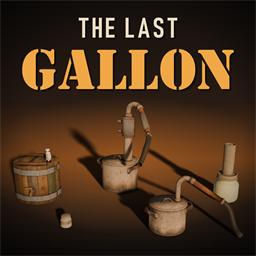
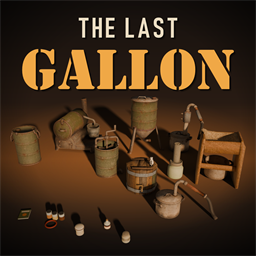
art: the preview and the poster show fourteen models, the nine machines and five small items
tools/blender/pz_preview.py places the five biodiesel machines and the
sampling kit, the yeast starter, the stabilizer and the manual beside
the five models drawn before, in three rows, through a 35 mm lens from a
higher camera. It takes the Cycles samples as an optional argument.
make-preview.ps1 wrote art-src/preview.png and 42/poster.png: 256x256,
88,596 bytes, SHA-256 13A1A39F...7309D5D1.

Not in the picture: the Diesel Generator (the game's sprite recoloured,
no model) and the Biodiesel Handbook (the manual's model).

Three shipped files change: 42/poster.png, preview.png and NOTICE.md.
The version stays 0.4.0. The 0.4.0 zip in dist is still the one of
eecd209, with the earlier picture. No launch looked at the new poster
in the game.

Changed region(s): [[0.0312, 0.375, 0.9688, 0.9375], [0.375, 0.8125, 0.5312, 0.9688]]

diff --git a/tools/blender/pz_preview.py b/tools/blender/pz_preview.py
@@ -1,14 +1,18 @@
 """Render the machines for the Workshop preview (tools/make-preview.ps1).
 
-  blender -b --factory-startup --python tools/blender/pz_preview.py -- <media dir> <out.png> [size]
+  blender -b --factory-startup --python tools/blender/pz_preview.py -- <media dir> <out.png> [size] [samples]
 
-Draws the mod's own five supplied models (media/models_X/TLG, each with its
+Draws the mod's own fourteen models (media/models_X/TLG, each with its
 media/textures/TLG texture) at their in-game scales (media/scripts/
 TLG_models.txt) on a shadow-catching floor, in Cycles, with a transparent
-background: the floor keeps only the shadows. A low warm light from behind
-and a cool fill from the front. The camera frames the group in the lower
-part of the picture, leaving the top for the title that make-preview.ps1
-draws. No game asset is drawn.
+background: the floor keeps only the shadows. The machines stand in three
+rows, the tall ones at the back, and the small items lie in front of them:
+a 35 mm lens close to the group draws those larger than a long lens would.
+A low warm light from behind and a cool fill from the front. The camera
+frames the group in the lower part of the picture, leaving the top for the
+title that make-preview.ps1 draws. [samples] (default 96) sets the Cycles
+samples: a low number gives a quick draft while the layout is tuned. No
+game asset is drawn.
 """
 import math
 import os
@@ -21,22 +25,22 @@ from mathutils import Vector
 # name, in-game scale, (x, y) on the floor in metres, turn about Z in degrees
 LAYOUT = (
     # The back row: the tall machines.
-    ("AshBarrel", 0.6, (-1.35, 1.25), 20.0),
-    ("BiodieselReactor", 0.77, (-0.55, 1.35), 0.0),
+    ("WoodRetort", 0.87, (-0.95, 1.30), 0.0),
     ("BiodieselWashTank", 1.0, (0.35, 1.40), 0.0),
-    ("RefluxStill", 0.9, (1.20, 1.20), -15.0),
+    ("RefluxStill", 0.9, (1.05, 1.35), -15.0),
     # The middle row.
-    ("WoodRetort", 0.87, (-0.85, 0.30), 0.0),
-    ("Fermenter", 0.5, (0.30, 0.25), 25.0),
-    ("DryingColumn", 0.55, (0.90, 0.35), -30.0),
+    ("AshBarrel", 0.6, (-1.55, 0.40), 20.0),
+    ("BiodieselReactor", 0.77, (-0.08, 0.30), 0.0),
+    ("Fermenter", 0.5, (0.50, -0.05), 25.0),
+    ("DryingColumn", 0.55, (0.95, 0.40), -30.0),
     ("LyeLeacher", 0.73, (1.55, 0.50), 180.0),
     # The front row, nearest the camera: the pot still and the small items.
     ("PotStill", 0.7, (1.10, -0.55), -25.0),
-    ("ManualFuelSystems", 0.16, (-1.10, -0.95), 20.0),
-    ("FuelSampleKit", 0.225, (-0.65, -1.00), 0.0),
-    ("YeastStarter", 0.108, (-0.25, -1.10), 0.0),
-    ("FuelStabilizer", 0.115, (0.02, -0.95), 0.0),
-    ("FuelFilter", 0.1, (0.30, -1.10), 10.0),
+    ("ManualFuelSystems", 0.16, (-0.80, -0.95), 20.0),
+    ("FuelSampleKit", 0.225, (-0.40, -1.00), 0.0),
+    ("YeastStarter", 0.108, (-0.02, -1.10), 0.0),
+    ("FuelStabilizer", 0.115, (0.25, -0.95), 0.0),
+    ("FuelFilter", 0.1, (0.50, -1.10), 10.0),
 )
 # The group spans this much of the frame's width, its feet this far up.
 SPAN, FEET, TOP = 0.92, 0.05, 0.66

diff --git a/docs/decisions.md b/docs/decisions.md
@@ -1186,7 +1186,9 @@ their replacement.
     tested and what this version leaves out; the tags Build 42, Realistic,
     Vehicles and Items (`media/WorkshopTags.txt`); visibility private.
   * The Workshop preview, `art-src/preview.png` (256×256), is made by
-    `tools/make-preview.ps1` from the mod's own five machine models. The
+    `tools/make-preview.ps1` from the mod's own five machine models
+    (fourteen models since 2026-11-11: the nine machines and five small
+    items; the user asked for "all the items"). The
     package carries it beside `Contents/`, and it is also the poster.
 * Reason: the user asked for the release metadata on 2026-11-04 ("Yes,
   release metadata"). Asked about the licence and the version, they chose

diff --git a/NOTICE.md b/NOTICE.md
@@ -56,8 +56,9 @@
   (`art-src/carry/PROVENANCE.md`).
 * The Workshop preview and the mod list's poster (`preview.png` beside
   the item's `Contents` folder, and `42/poster.png`, the same picture)
-  were made for the mod by `tools/make-preview.ps1`: the five supplied
-  machine models above rendered in Blender (`tools/blender/pz_preview.py`)
+  were made for the mod by `tools/make-preview.ps1`: the ten supplied
+  models above and the mod's four small item models, rendered in Blender
+  (`tools/blender/pz_preview.py`)
   under the title, set in Bahnschrift (Microsoft) and Stencil (URW and
   Microsoft), fonts installed on the computer it was made on. The picture
   holds only their rendered letters, no font file. The mod list's icon

diff --git a/README.md b/README.md
@@ -1,6 +1,6 @@
 # The Last Gallon
 
-![The Last Gallon: the five machines under the title](art-src/preview.png)
+![The Last Gallon: nine machines and five small items under the title](art-src/preview.png)
 
 A mod for Project Zomboid **Build 42.22.2**. Fuel ages, takes up water and
 gathers dirt; engines start harder, lose power and wear on poor fuel; you
